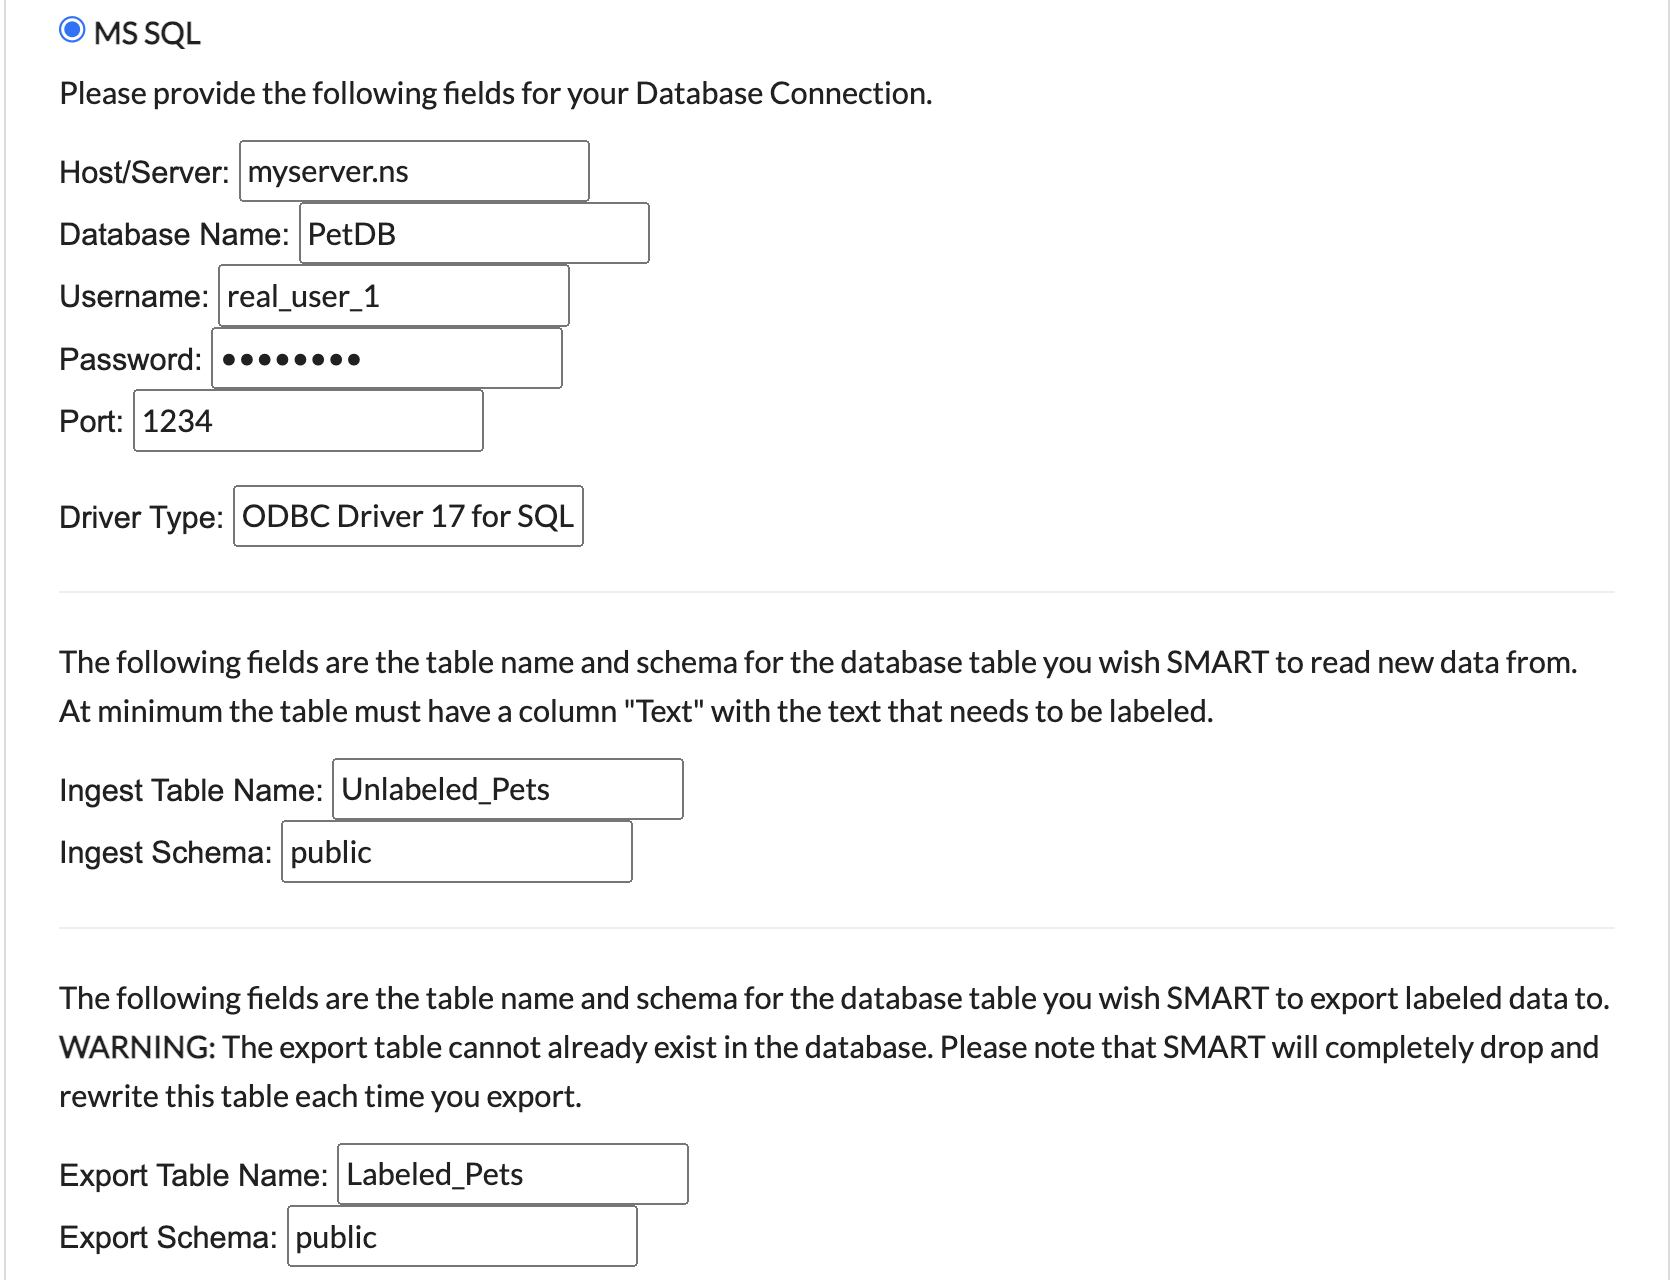
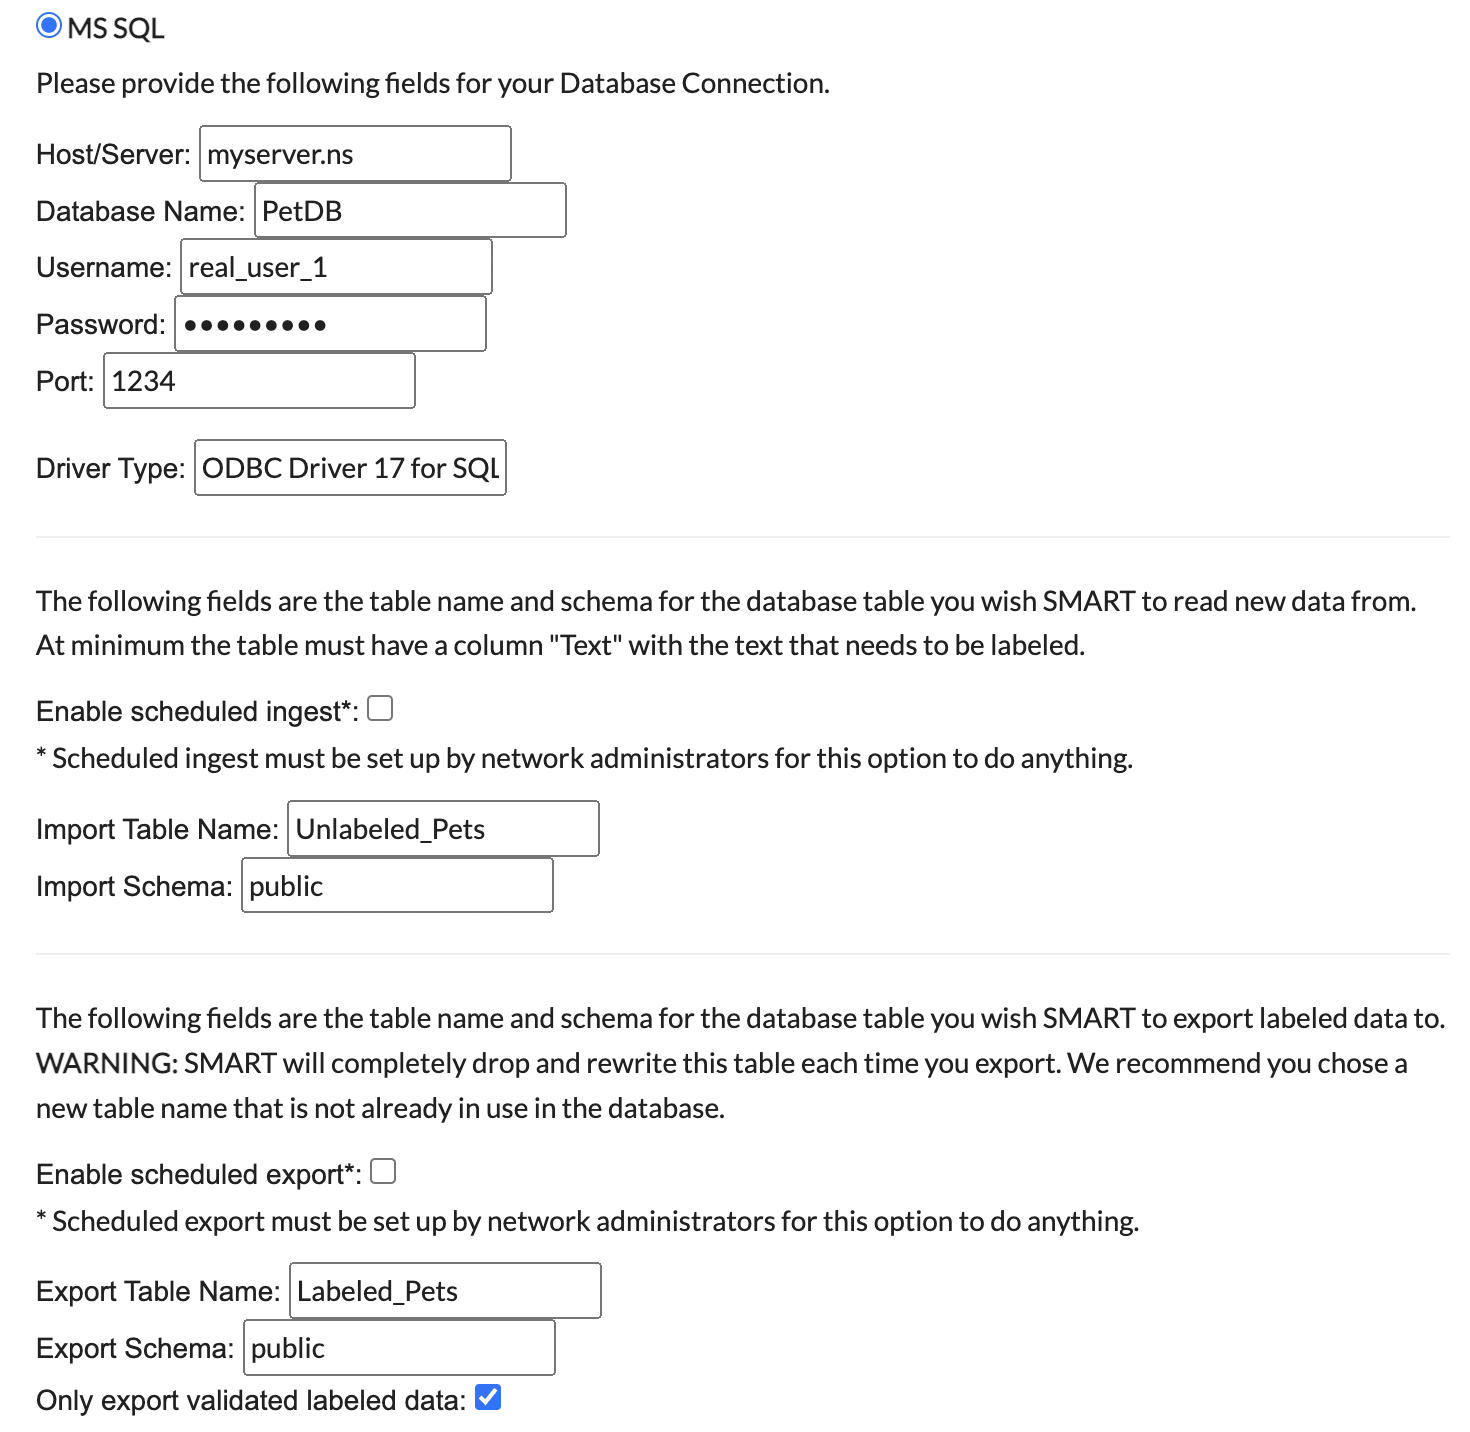
update external database form

Changed region(s): [[0.0306, 0.0, 0.9796, 1.0]]

diff --git a/smart-docs/docs/tutorial-new-project.rst b/smart-docs/docs/tutorial-new-project.rst
@@ -116,6 +116,29 @@ Below is an example of setting up a database connection, for our Cat projects, w
 
 |project-database-connection|
 
+The fields for a database connection are:
+
+* Host/Sever: Place the database is hosted.
+* Database Name: Name of the specific database to connect to.
+* Username and Password: Credentials for a user that is authorized to connect to the database. (NOTE: for security reasons this information is not saved to the SMART internal database.)
+* Port: The port to connect through.
+* Driver Type: This is the driver needed to connect to the database. Currently only MS SQL is supported.
+
+**Ingest**
+
+This section of the form is needed to set up which table and schema data should be pulled from into SMART. The layout of this data uses the same rules as a regular data file upload.
+
+*Scheduled Ingest:* If this button is checked, then SMART will add this project to the list of projects that will pull in new data from the indicated tables whenever the management command `ingest_database_data` is used.
+This will allow a server admin to set up re-occuring pulls through a service like cron. See the README in the `envs/prod` folder on the repository for more information.
+
+**Export**
+
+This section of the form is needed to set up the table and schema where labeled data should be exported. These exports contain the same fields which show up when someone downloads the labeled data on the details or project list page.
+
+*Scheduled Export:* Just like scheduled ingest, SMART allows projects to set up scheduled export through the `export_database_data` management command.
+
+*Exporting only validated data:* This checkbox affects if un-validated labeled data will be included in database exports. Labeled data can be validated in the :ref:`annotationpage` through the history table
+ or the "IRR | Requires Adjudication" tab. Resolved IRR data is automatically considered validated. By default, database exports will include all labeled data.
 
 
 Upload Data

diff --git a/smart-docs/docs/tutorial-review-projects.rst b/smart-docs/docs/tutorial-review-projects.rst
@@ -96,7 +96,7 @@ Updating a Project
 The Update Project page is accessible from the :ref:`details` of a project. This page can be used for the following operations:
 
 * Edit the project name and description
-* Add or remove an MSSQL database connection
+* Add or remove an MSSQL database connection, or change settings (NOTE: you will be required to re-enter database credentials to make changes)
 * Add additional data to label
 * Add or change the codebook file
 * Add, remove, or change project permissions
